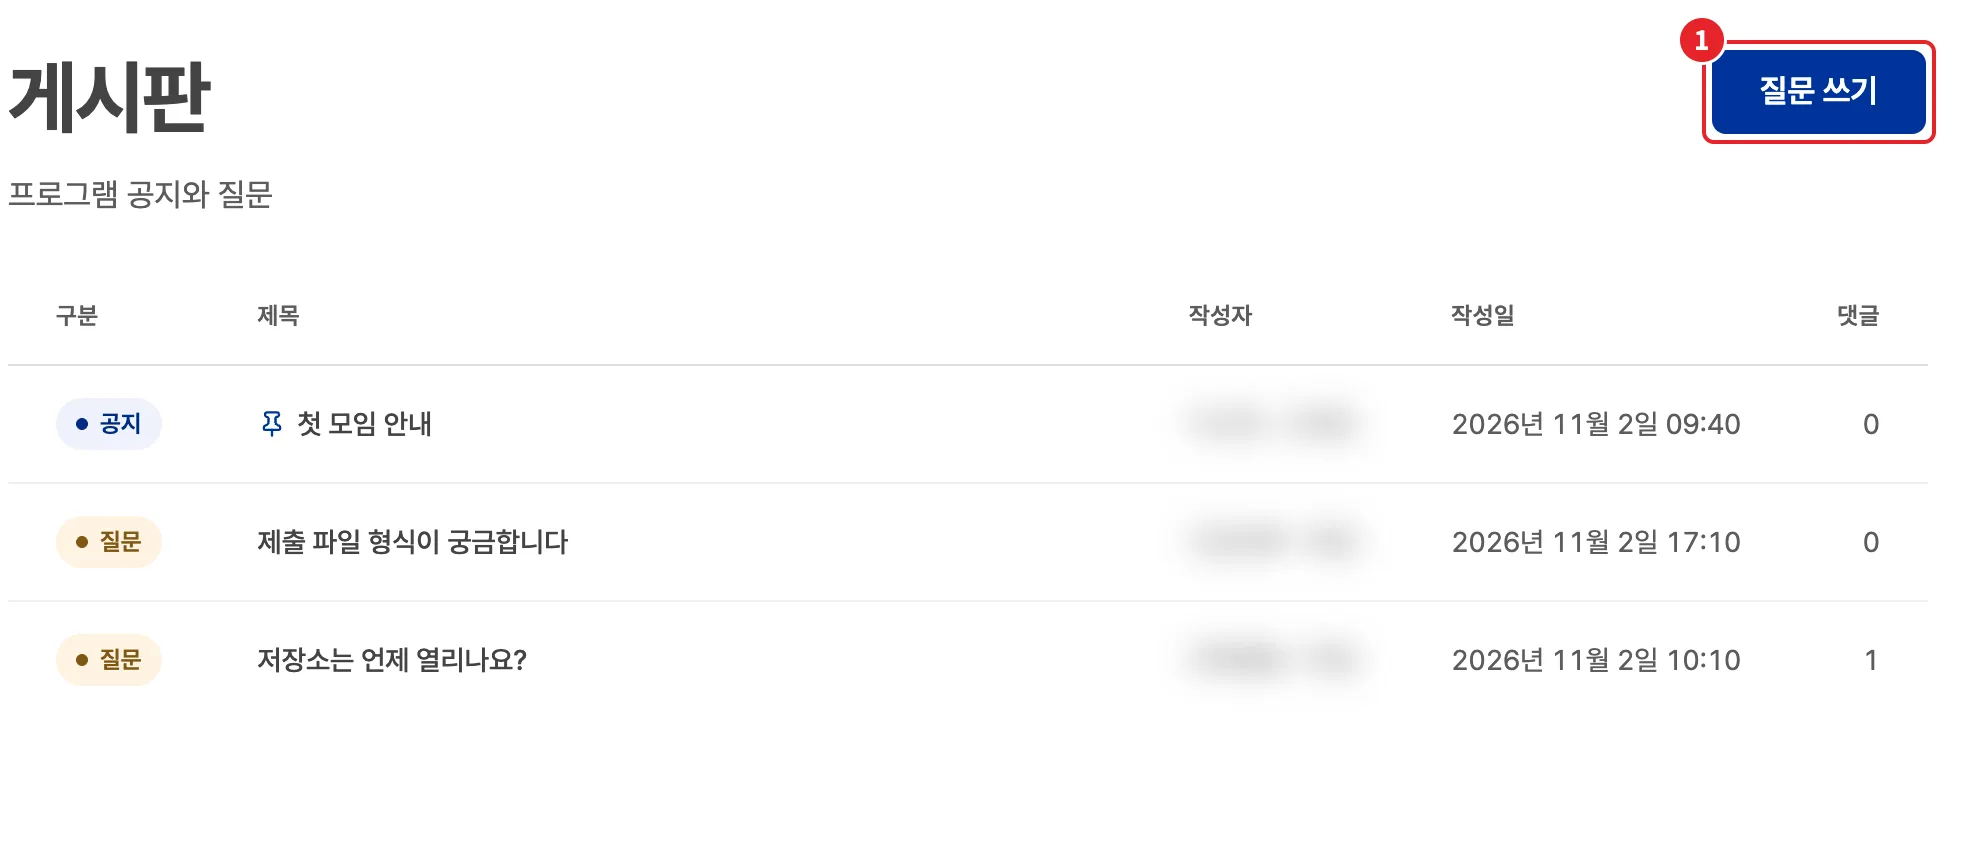
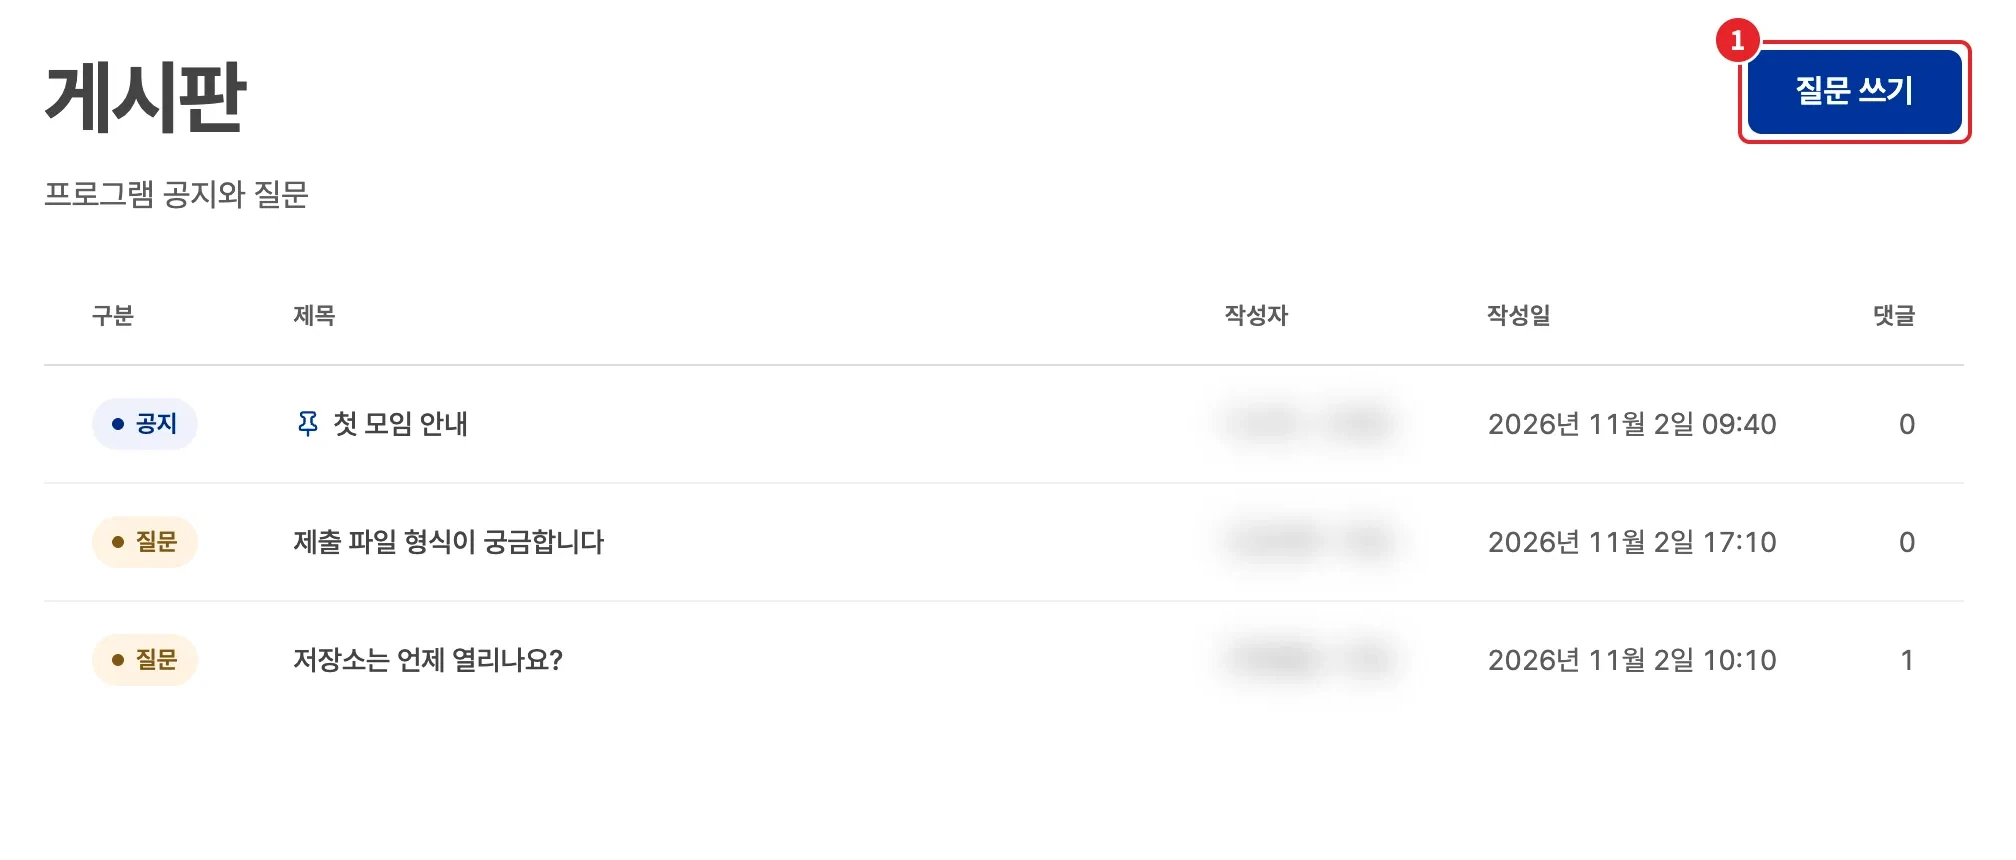
docs(skills): 가이드 스택 시드 절차를 바로잡고 게시판 캡처에 여백을 준다
demo 프로필만 시드하면 준비 SQL이 쓰는 계정이 없어 외래 키 오류로 멈춘다.
스택 문서와 페르소나 문서에 auth, demo 순서를 적고 혼동을 주던 기본값을 뺀다.
제목이 왼쪽 끝에 붙어 보이던 학생 게시판 캡처 4장에는 왼쪽 여백을 더한다.

diff --git a/skills/build-user-guide-site/references/stack.md b/skills/build-user-guide-site/references/stack.md
@@ -13,7 +13,7 @@
 | 백엔드 | 4310 |
 | 메일 | `MAIL_MODE=dry-run` (실제 메일 없음) |
 | GitHub | 자격 증명 없음. 저장소 자동 생성 같은 호출은 일어나지 않습니다 |
-| 시드 | `SEED_PROFILE=demo pnpm exec prisma db seed` (apps/backend에서) |
+| 시드 | `SEED_PROFILE=auth`와 `SEED_PROFILE=demo`로 `pnpm exec prisma db seed`를 차례로 실행 (apps/backend에서) |
 
 값 묶음은 `skills/build-user-guide-site/scripts/stack.env.example`에 있습니다. 이것은 `.envrc.example` 위에 덮어쓰는 값이며, 나머지 변수(`DATABASE_URL`, OAuth 변수 등)는 `.envrc.example`에서 가져옵니다. `DATABASE_URL`은 `.envrc.example` 값에서 포트만 `55432`로 바꿉니다. 비밀번호 같은 값을 이 스킬에 적지 않습니다.
 
@@ -28,7 +28,7 @@
 1. 환경: `stack.env.example`을 `source`하고 `SESSION_SECRET`, `TEAM_JOIN_CODE_SECRET`을 채웁니다. 나머지 변수는 `.envrc.example`에서 옮깁니다.
 2. 인프라: `docker compose -p oss-hub-guide -f compose.dev.yml up -d postgres object-storage` (컨테이너 이름은 `docker ps`로 확인했습니다. 서비스 이름은 compose 파일에서 확인하세요).
 3. 마이그레이션: `pnpm --filter backend exec prisma migrate deploy`.
-4. 시드: `cd apps/backend && SEED_PROFILE=demo pnpm exec prisma db seed`.
+4. 시드: `cd apps/backend && SEED_PROFILE=auth pnpm exec prisma db seed && SEED_PROFILE=demo pnpm exec prisma db seed`. `demo`만 돌리면 준비 SQL이 쓰는 계정이 없어 5단계가 외래 키 오류로 멈춥니다.
 5. 가이드용 상태: 준비 SQL을 `docker exec -i oss-hub-guide-postgres-1 psql -U oss -d oss_hub -v ON_ERROR_STOP=1 < <G>/prepare-db.sql`로 적용합니다. 합성 행을 더 넣을 때도 같은 명령을 씁니다.
 6. 백엔드: `apps/backend`에서 `PORT=4310`으로 `nest start`를 직접 시작합니다. `/my-repos`가 동작하려면 `GITHUB_APP_ORG=JNU-SWCU`가 필요합니다.
 7. 프런트: `PORT=3310`으로 `next dev`. 프런트는 `BACKEND_ORIGIN`으로 백엔드를 찾습니다.

diff --git a/skills/build-user-guide-site/references/personas.md b/skills/build-user-guide-site/references/personas.md
@@ -8,7 +8,7 @@
 - 준비 SQL은 여러 번 돌려도 같은 결과가 나오도록 멱등으로 씁니다. 실행 명령은 `stack.md`에 있습니다.
 - 데이터 안의 "오늘"은 촬영 기준일로 고정해 두고(이 사이트는 2026-11-02 KST) 날짜가 어긋나 보이지 않게 마일스톤 날짜를 정합니다.
 - 저장소 조직은 `JNU-SWCU`로 둡니다. 화면에 보이는 곳은 캡처 때 가립니다.
-- 시드는 `SEED_PROFILE=demo`로 `prisma db seed`를 돌려 기본 데이터를 만들고, 그 위에 준비 SQL로 가이드용 상태를 얹습니다.
+- 시드는 `SEED_PROFILE=auth`와 `SEED_PROFILE=demo`로 `prisma db seed`를 차례로 돌려 기본 데이터를 만들고, 그 위에 준비 SQL로 가이드용 상태를 얹습니다.
 - AuditLog는 추가 전용 테이블이라 고치려면 `begin; set local session_replication_role=replica; ...; commit;` 안에서 합니다. 감사 로그 metadata는 엄격히 파싱되므로 형식이 틀린 행이 있으면 목록 API가 500을 냅니다. 행을 넣을 때 형식을 지키세요. 합성 사용자를 SQL로 지우면 그 사용자가 행위자인 행도 같은 500을 내니 함께 지웁니다.
 
 ## 있어야 하는 페르소나(역할과 상태)
